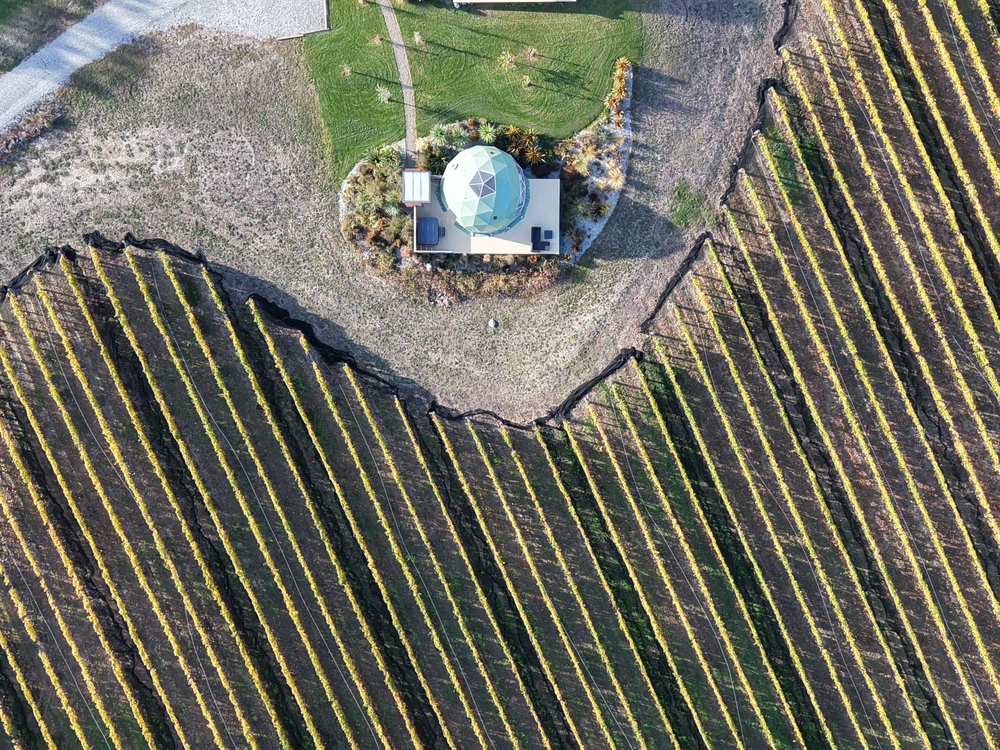
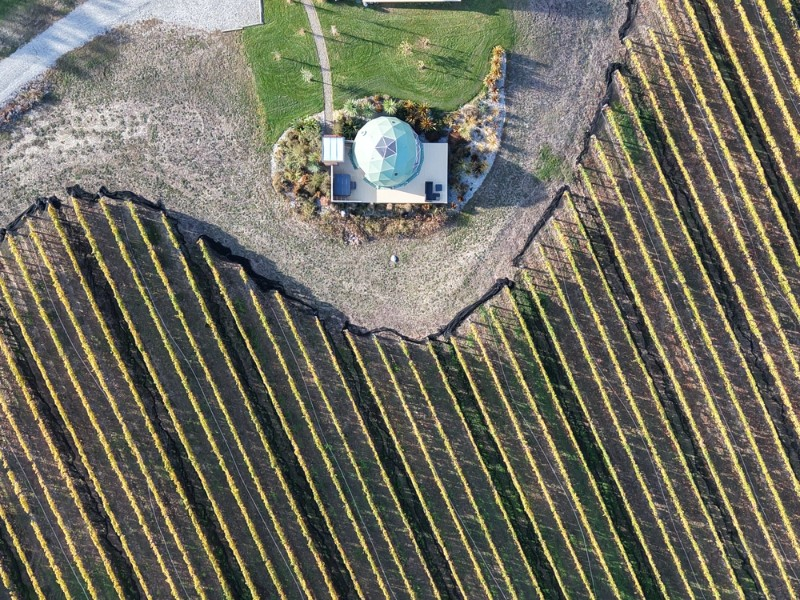
Alert when a post-stay review email fails
processReviewRequest caught its own errors and logged them, so a failed send
never reached the cron route's alerting. The job returned success, and because
`sent++` ran once per iteration rather than once per send, a run where every
email failed still reported them all as sent.

That mattered more than it looks. The finder covers a single day's departures,
so a booking missed today is never offered again — the guest simply never
hears from us. The only traces were a log line nobody reads and a failed row
in email_sends, which nothing monitors. A miss was both permanent and silent.

Now it follows pre-arrival: the function throws, the route wraps each booking
in its own try/catch so one bad address cannot end the batch, counts outcomes
rather than iterations, and sends one alert per run listing every booking that
failed. The alert says plainly that these guests will not be retried, since
that is the part a reader would otherwise assume wrong.

processReviewRequest now returns "sent" | "skipped" so a duplicate caught by
the second-line dedup check does not inflate the success count.

Mutation-verified: restoring the swallow-and-count-attempts version fails four
of the five new tests, including the one asserting a failed send is not
counted as sent.

Leaves reconcile-calendar as the only cron without a failure tally, which is
correct — it is a read-only reachability check with no per-item loop.

diff --git a/src/app/api/cron/review-request/__tests__/failure-alerting.test.ts b/src/app/api/cron/review-request/__tests__/failure-alerting.test.ts
@@ -1,0 +1,133 @@
+import { describe, it, expect, beforeEach, vi } from "vitest";
+
+/**
+ * A failed post-stay email has to reach the host.
+ *
+ * The finder looks at a single day's departures, so a booking missed today is
+ * never offered again — the guest simply never hears from us. Before this, the
+ * failure was swallowed: the job logged an error, returned success, and
+ * counted the failed booking as sent.
+ *
+ * These assert the three things that has to mean: the batch survives one bad
+ * booking, the counts reflect outcomes rather than iterations, and exactly one
+ * alert goes out per run.
+ */
+
+const findReviewCandidates = vi.fn();
+const processReviewRequest = vi.fn();
+const sendSystemAlert = vi.fn(() => Promise.resolve());
+
+vi.mock("@/lib/marketing-automation", () => ({
+  findReviewCandidates: () => findReviewCandidates(),
+  processReviewRequest: (b: unknown) => processReviewRequest(b),
+}));
+vi.mock("@/lib/email", () => ({
+  sendSystemAlert: (...a: unknown[]) => sendSystemAlert(...(a as [])),
+}));
+vi.mock("@/lib/logger", () => ({
+  logger: { info: vi.fn(), warn: vi.fn(), error: vi.fn() },
+}));
+vi.mock("@/lib/cron-auth", () => ({ verifyCronSecret: () => true }));
+
+const booking = (id: string) => ({ id });
+
+async function run() {
+  const { POST } = await import("../route");
+  const res = await POST(
+    new Request("http://localhost/api/cron/review-request", { method: "POST" })
+  );
+  return { status: res.status, body: await res.json() };
+}
+
+beforeEach(() => {
+  findReviewCandidates.mockReset();
+  processReviewRequest.mockReset();
+  sendSystemAlert.mockReset();
+  sendSystemAlert.mockReturnValue(Promise.resolve());
+});
+
+describe("review-request cron: failure handling", () => {
+  it("keeps going after one booking fails, and reports both counts", async () => {
+    findReviewCandidates.mockResolvedValue([
+      booking("ok-1"),
+      booking("bad"),
+      booking("ok-2"),
+    ]);
+    processReviewRequest.mockImplementation(async (b: { id: string }) => {
+      if (b.id === "bad") throw new Error("Invalid login: 535 auth failed");
+      return "sent";
+    });
+
+    const { status, body } = await run();
+
+    expect(status).toBe(200);
+    // The booking after the failure still got its email.
+    expect(processReviewRequest).toHaveBeenCalledTimes(3);
+    expect(body.sent).toBe(2);
+    expect(body.failed).toBe(1);
+  });
+
+  it("alerts once for the batch, not once per failure", async () => {
+    findReviewCandidates.mockResolvedValue([
+      booking("bad-1"),
+      booking("bad-2"),
+      booking("bad-3"),
+    ]);
+    processReviewRequest.mockRejectedValue(new Error("SMTP unreachable"));
+
+    const { body } = await run();
+
+    expect(body.sent).toBe(0);
+    expect(body.failed).toBe(3);
+    expect(sendSystemAlert).toHaveBeenCalledTimes(1);
+
+    const [type, subject, details] = sendSystemAlert.mock.calls[0] as unknown as
+      [string, string, string];
+    expect(type).toBe("CRON_FAILURE");
+    expect(subject).toContain("3 of 3");
+    // Every failing booking is named, so the host knows who to follow up.
+    for (const id of ["bad-1", "bad-2", "bad-3"]) {
+      expect(details).toContain(id);
+    }
+    // And told that nothing will retry them.
+    expect(details).toContain("NOT be retried");
+  });
+
+  it("stays silent when everything succeeds", async () => {
+    findReviewCandidates.mockResolvedValue([booking("a"), booking("b")]);
+    processReviewRequest.mockResolvedValue("sent");
+
+    const { body } = await run();
+
+    expect(body.sent).toBe(2);
+    expect(body.failed).toBe(0);
+    expect(sendSystemAlert).not.toHaveBeenCalled();
+  });
+
+  it("counts a skipped duplicate as neither sent nor failed", async () => {
+    // findReviewCandidates already excludes these; the inner check is a guard
+    // against a concurrent run. It must not inflate the success count.
+    findReviewCandidates.mockResolvedValue([booking("fresh"), booking("dupe")]);
+    processReviewRequest.mockImplementation(async (b: { id: string }) =>
+      b.id === "dupe" ? "skipped" : "sent"
+    );
+
+    const { body } = await run();
+
+    expect(body.sent).toBe(1);
+    expect(body.skipped).toBe(1);
+    expect(body.failed).toBe(0);
+    expect(sendSystemAlert).not.toHaveBeenCalled();
+  });
+
+  it("does not let a failing alert take down the job", async () => {
+    findReviewCandidates.mockResolvedValue([booking("bad")]);
+    processReviewRequest.mockRejectedValue(new Error("boom"));
+    sendSystemAlert.mockReturnValue(Promise.reject(new Error("alert down")));
+
+    const { status, body } = await run();
+
+    expect(status).toBe(200);
+    expect(body.failed).toBe(1);
+  });
+});

diff --git a/src/lib/marketing-automation.ts b/src/lib/marketing-automation.ts
@@ -181,61 +181,64 @@ export async function findPreArrivalBookings(): Promise<Booking[]> {
 // --- Processing functions ---
 
 /**
- * Send a review request email and create a review_requests entry.
+ * Send the post-stay review email and record it in review_requests.
+ *
+ * Throws on failure rather than swallowing, so the caller can count it and
+ * alert. It used to catch-and-log, which meant a failed send left the cron
+ * reporting success while the guest silently got nothing — and because the
+ * finder only looks at a single day's departures, that guest is never picked
+ * up again. A miss here is permanent, so it has to be visible.
+ *
+ * Returns which of the two non-failure outcomes happened, so the caller can
+ * count sends without counting skips.
  */
-export async function processReviewRequest(booking: Booking): Promise<void> {
-  try {
-    // Check if a request already exists
-    const existing = await prisma.review_requests.findUnique({
-      where: { booking_id: booking.id },
-    });
+export async function processReviewRequest(
+  booking: Booking
+): Promise<"sent" | "skipped"> {
+  // Check if a request already exists. findReviewCandidates already excludes
+  // these, so this is a second line of defence against a concurrent run.
+  const existing = await prisma.review_requests.findUnique({
+    where: { booking_id: booking.id },
+  });
 
-    if (existing) {
-      logger.info("Review request already exists for booking, skipping", {
-        bookingId: booking.id,
-      });
-      return;
-    }
-
-    logger.info("Sending review request email", {
-      bookingId: booking.id,
-      guestEmail: booking.guest_email,
-    });
-
-    await sendCheckoutReviewReminder({
-      guest_name: booking.guest_name,
-      guest_email: booking.guest_email,
-      accommodation: booking.accommodation,
-      check_in: booking.check_in.toISOString(),
-      check_out: booking.check_out.toISOString(),
-      num_guests: booking.guests,
-      total_price: booking.total_price ? String(booking.total_price) : undefined,
-      booking_id: booking.id,
-    });
-
-    const now = new Date().toISOString();
-
-    await prisma.review_requests.create({
-      data: {
-        booking_id: booking.id,
-        guest_email: booking.guest_email,
-        guest_name: booking.guest_name,
-        accommodation: booking.accommodation,
-        check_out: booking.check_out.toISOString(),
-        request_count: 1,
-        last_request_sent_at: now,
-        status: "sent",
-      },
-    });
-
-    logger.info("Review request sent and recorded", {
+  if (existing) {
+    logger.info("Review request already exists for booking, skipping", {
       bookingId: booking.id,
     });
-  } catch (error) {
-    const message = error instanceof Error ? error.message : String(error);
-    logger.error("Failed to process review request", {
-      bookingId: booking.id,
-      error: message,
-    });
+    return "skipped";
   }
+
+  logger.info("Sending review request email", {
+    bookingId: booking.id,
+    guestEmail: booking.guest_email,
+  });
+
+  await sendCheckoutReviewReminder({
+    guest_name: booking.guest_name,
+    guest_email: booking.guest_email,
+    accommodation: booking.accommodation,
+    check_in: booking.check_in.toISOString(),
+    check_out: booking.check_out.toISOString(),
+    num_guests: booking.guests,
+    total_price: booking.total_price ? String(booking.total_price) : undefined,
+    booking_id: booking.id,
+  });
+
+  const now = new Date().toISOString();
+
+  await prisma.review_requests.create({
+    data: {
+      booking_id: booking.id,
+      guest_email: booking.guest_email,
+      guest_name: booking.guest_name,
+      accommodation: booking.accommodation,
+      check_out: booking.check_out.toISOString(),
+      request_count: 1,
+      last_request_sent_at: now,
+      status: "sent",
+    },
+  });
+
+  logger.info("Review request sent and recorded", { bookingId: booking.id });
+  return "sent";
 }

diff --git a/src/app/api/cron/review-request/route.ts b/src/app/api/cron/review-request/route.ts
@@ -14,19 +14,59 @@ export async function POST(request: Request) {
 
   try {
     // Post-stay thank-you and review ask, on departure day.
-    const initial = await findReviewCandidates();
+    const candidates = await findReviewCandidates();
+
     let sent = 0;
-    for (const booking of initial) {
-      await processReviewRequest(booking);
-      sent++;
+    let skipped = 0;
+    const failures: string[] = [];
+
+    // One booking per try/catch. processReviewRequest throws on failure, so
+    // without this a single bad address ends the loop and every guest behind
+    // it silently gets nothing. Counting is per outcome rather than per
+    // iteration — the previous version incremented `sent` for every booking
+    // regardless, so a run where every send failed still reported success.
+    for (const booking of candidates) {
+      try {
+        const outcome = await processReviewRequest(booking);
+        if (outcome === "sent") sent++;
+        else skipped++;
+      } catch (err) {
+        const message = err instanceof Error ? err.message : String(err);
+        logger.error("Review request email failed for booking", {
+          job: "review-request",
+          bookingId: booking.id,
+          error: message,
+        });
+        failures.push(`${booking.id}: ${message}`);
+      }
     }
 
     logger.info("Review request processing completed", {
       job: "review-request",
       sent,
+      skipped,
+      failed: failures.length,
     });
 
-    return NextResponse.json({ success: true, sent });
+    // Alert once for the batch, after every booking has had its turn.
+    //
+    // This is the only signal a failure produces. The finder looks at a single
+    // day's departures, so a booking missed today is never offered again — the
+    // guest just never hears from us, and nothing else would say so.
+    if (failures.length > 0) {
+      sendSystemAlert(
+        "CRON_FAILURE",
+        `Review request: ${failures.length} of ${candidates.length} email(s) failed`,
+        `${failures.join("\n")}\n\nThese guests will NOT be retried — the job only looks at same-day departures. Follow up manually if the review still matters.`
+      ).catch(() => {});
+    }
+
+    return NextResponse.json({
+      success: true,
+      sent,
+      skipped,
+      failed: failures.length,
+    });
   } catch (error) {
     logger.error("Review request processing failed", {
       job: "review-request",
